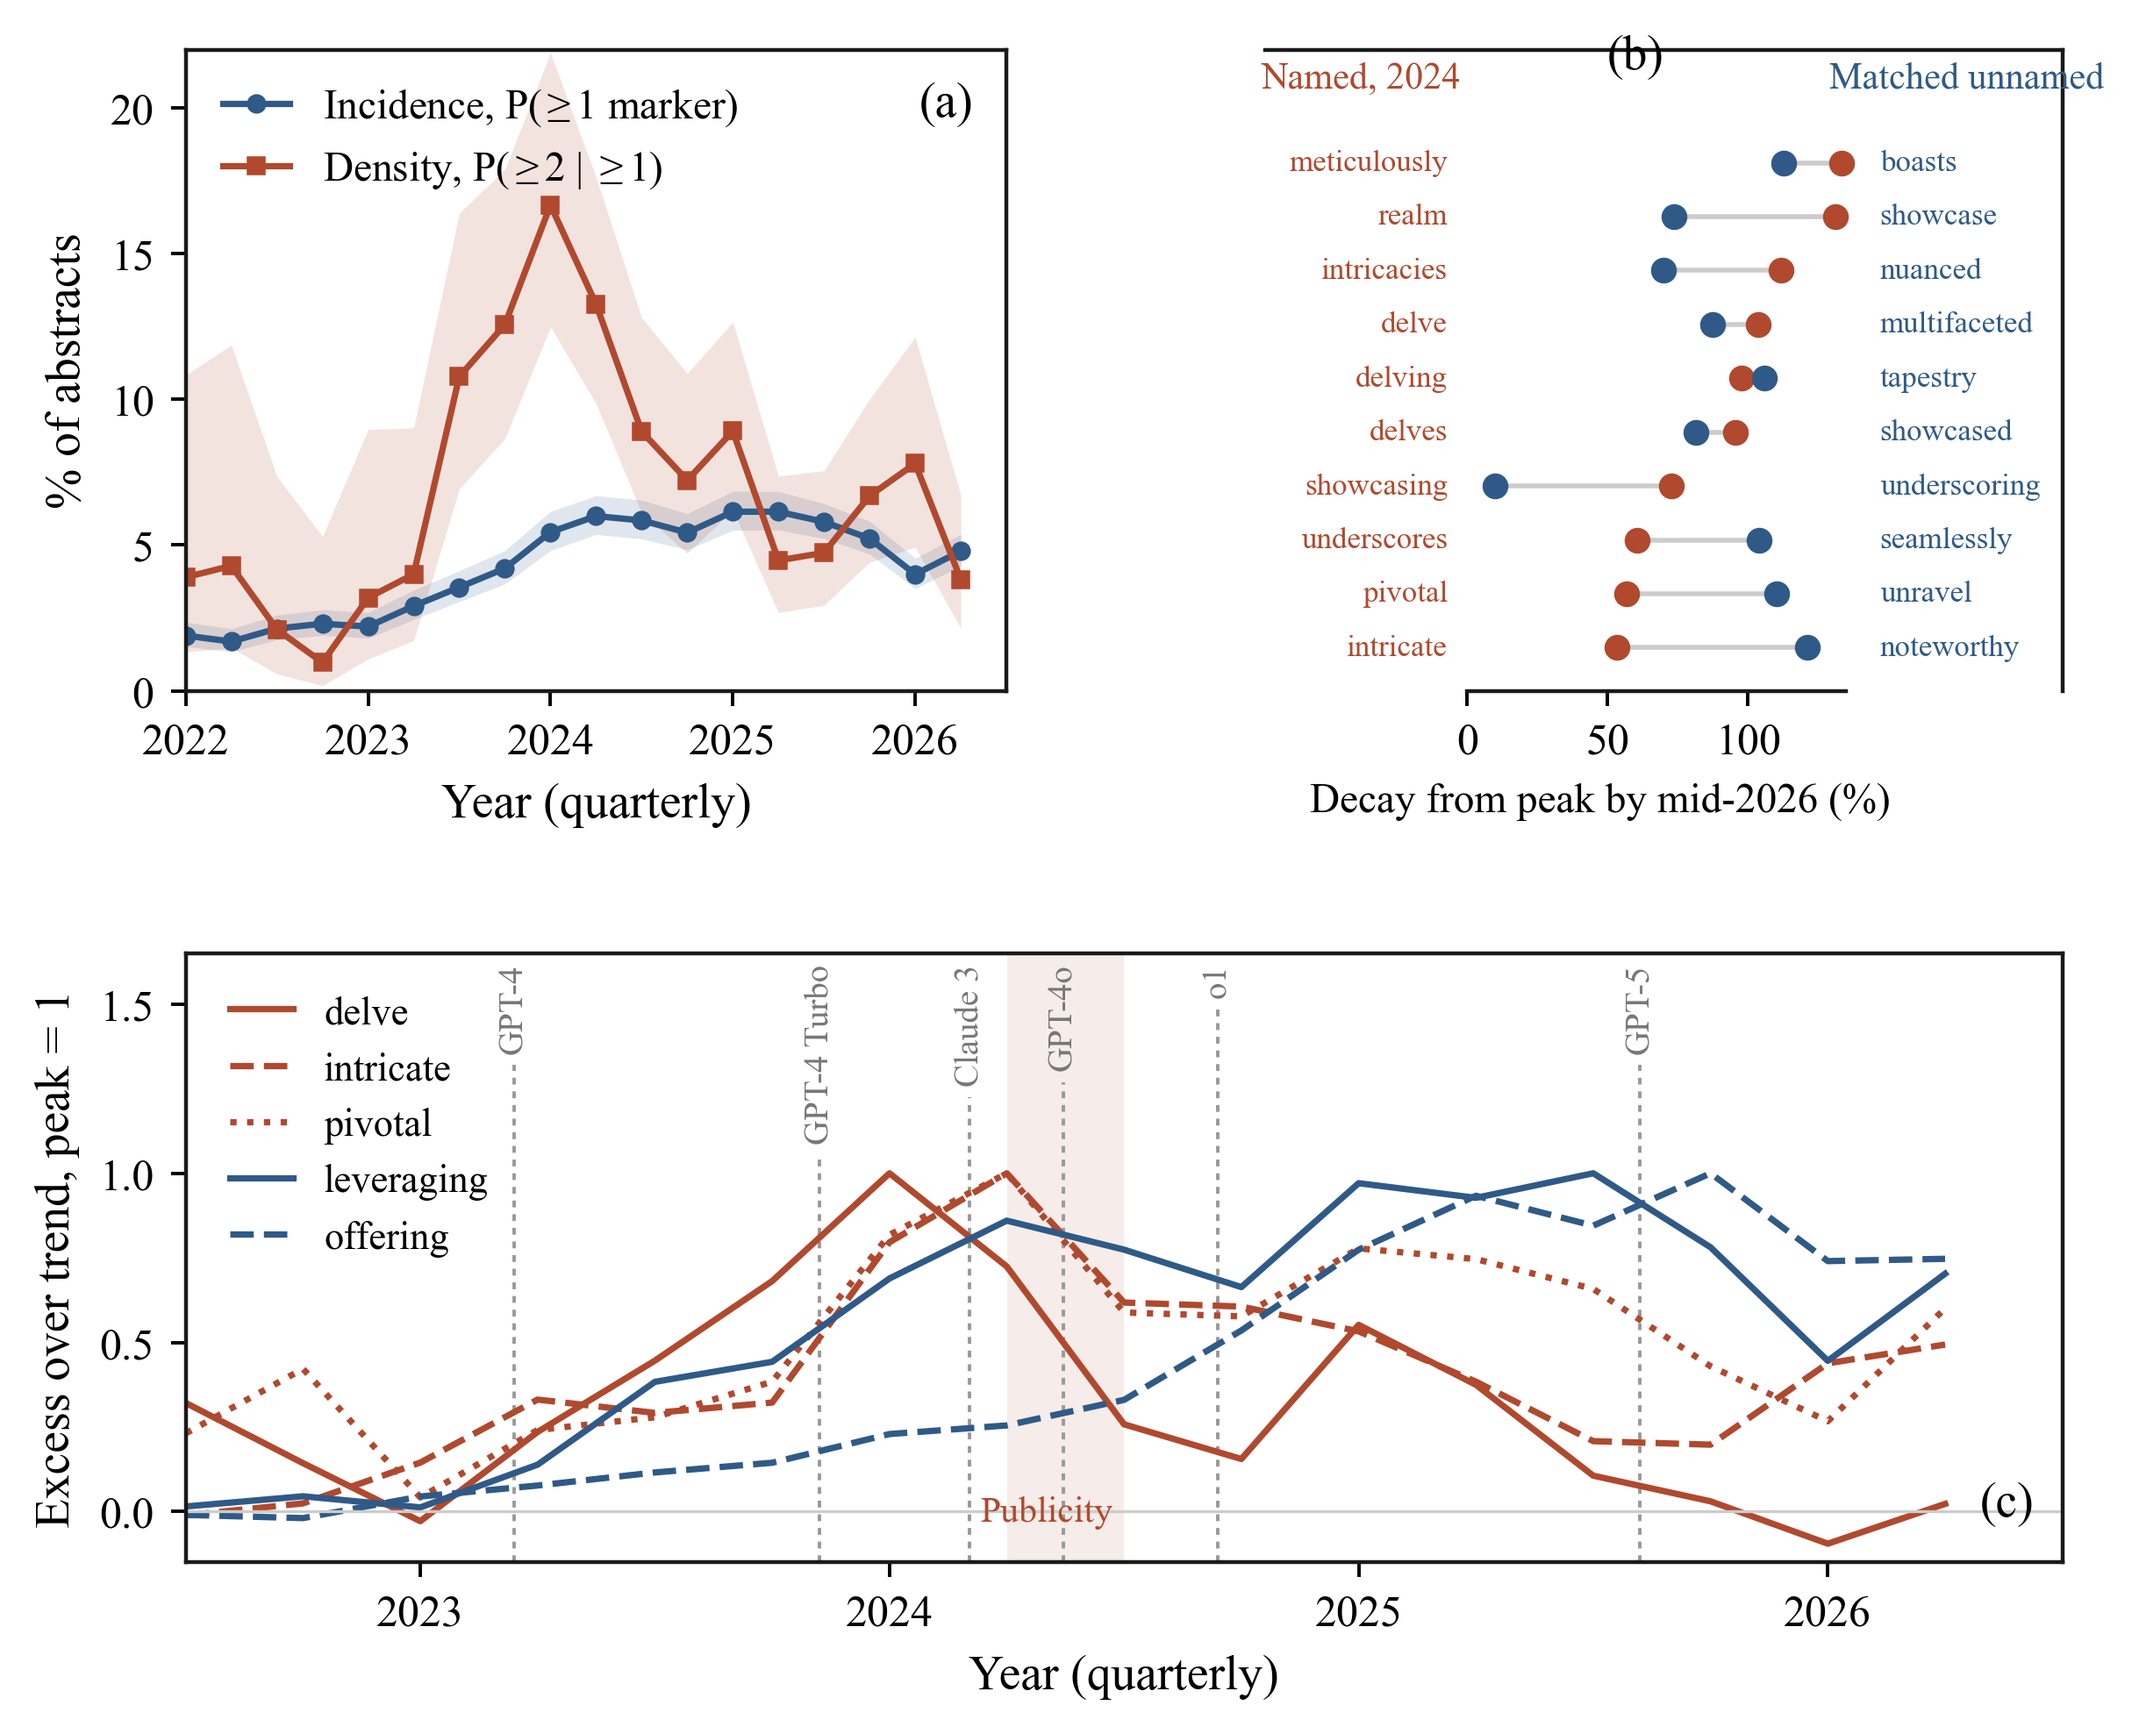
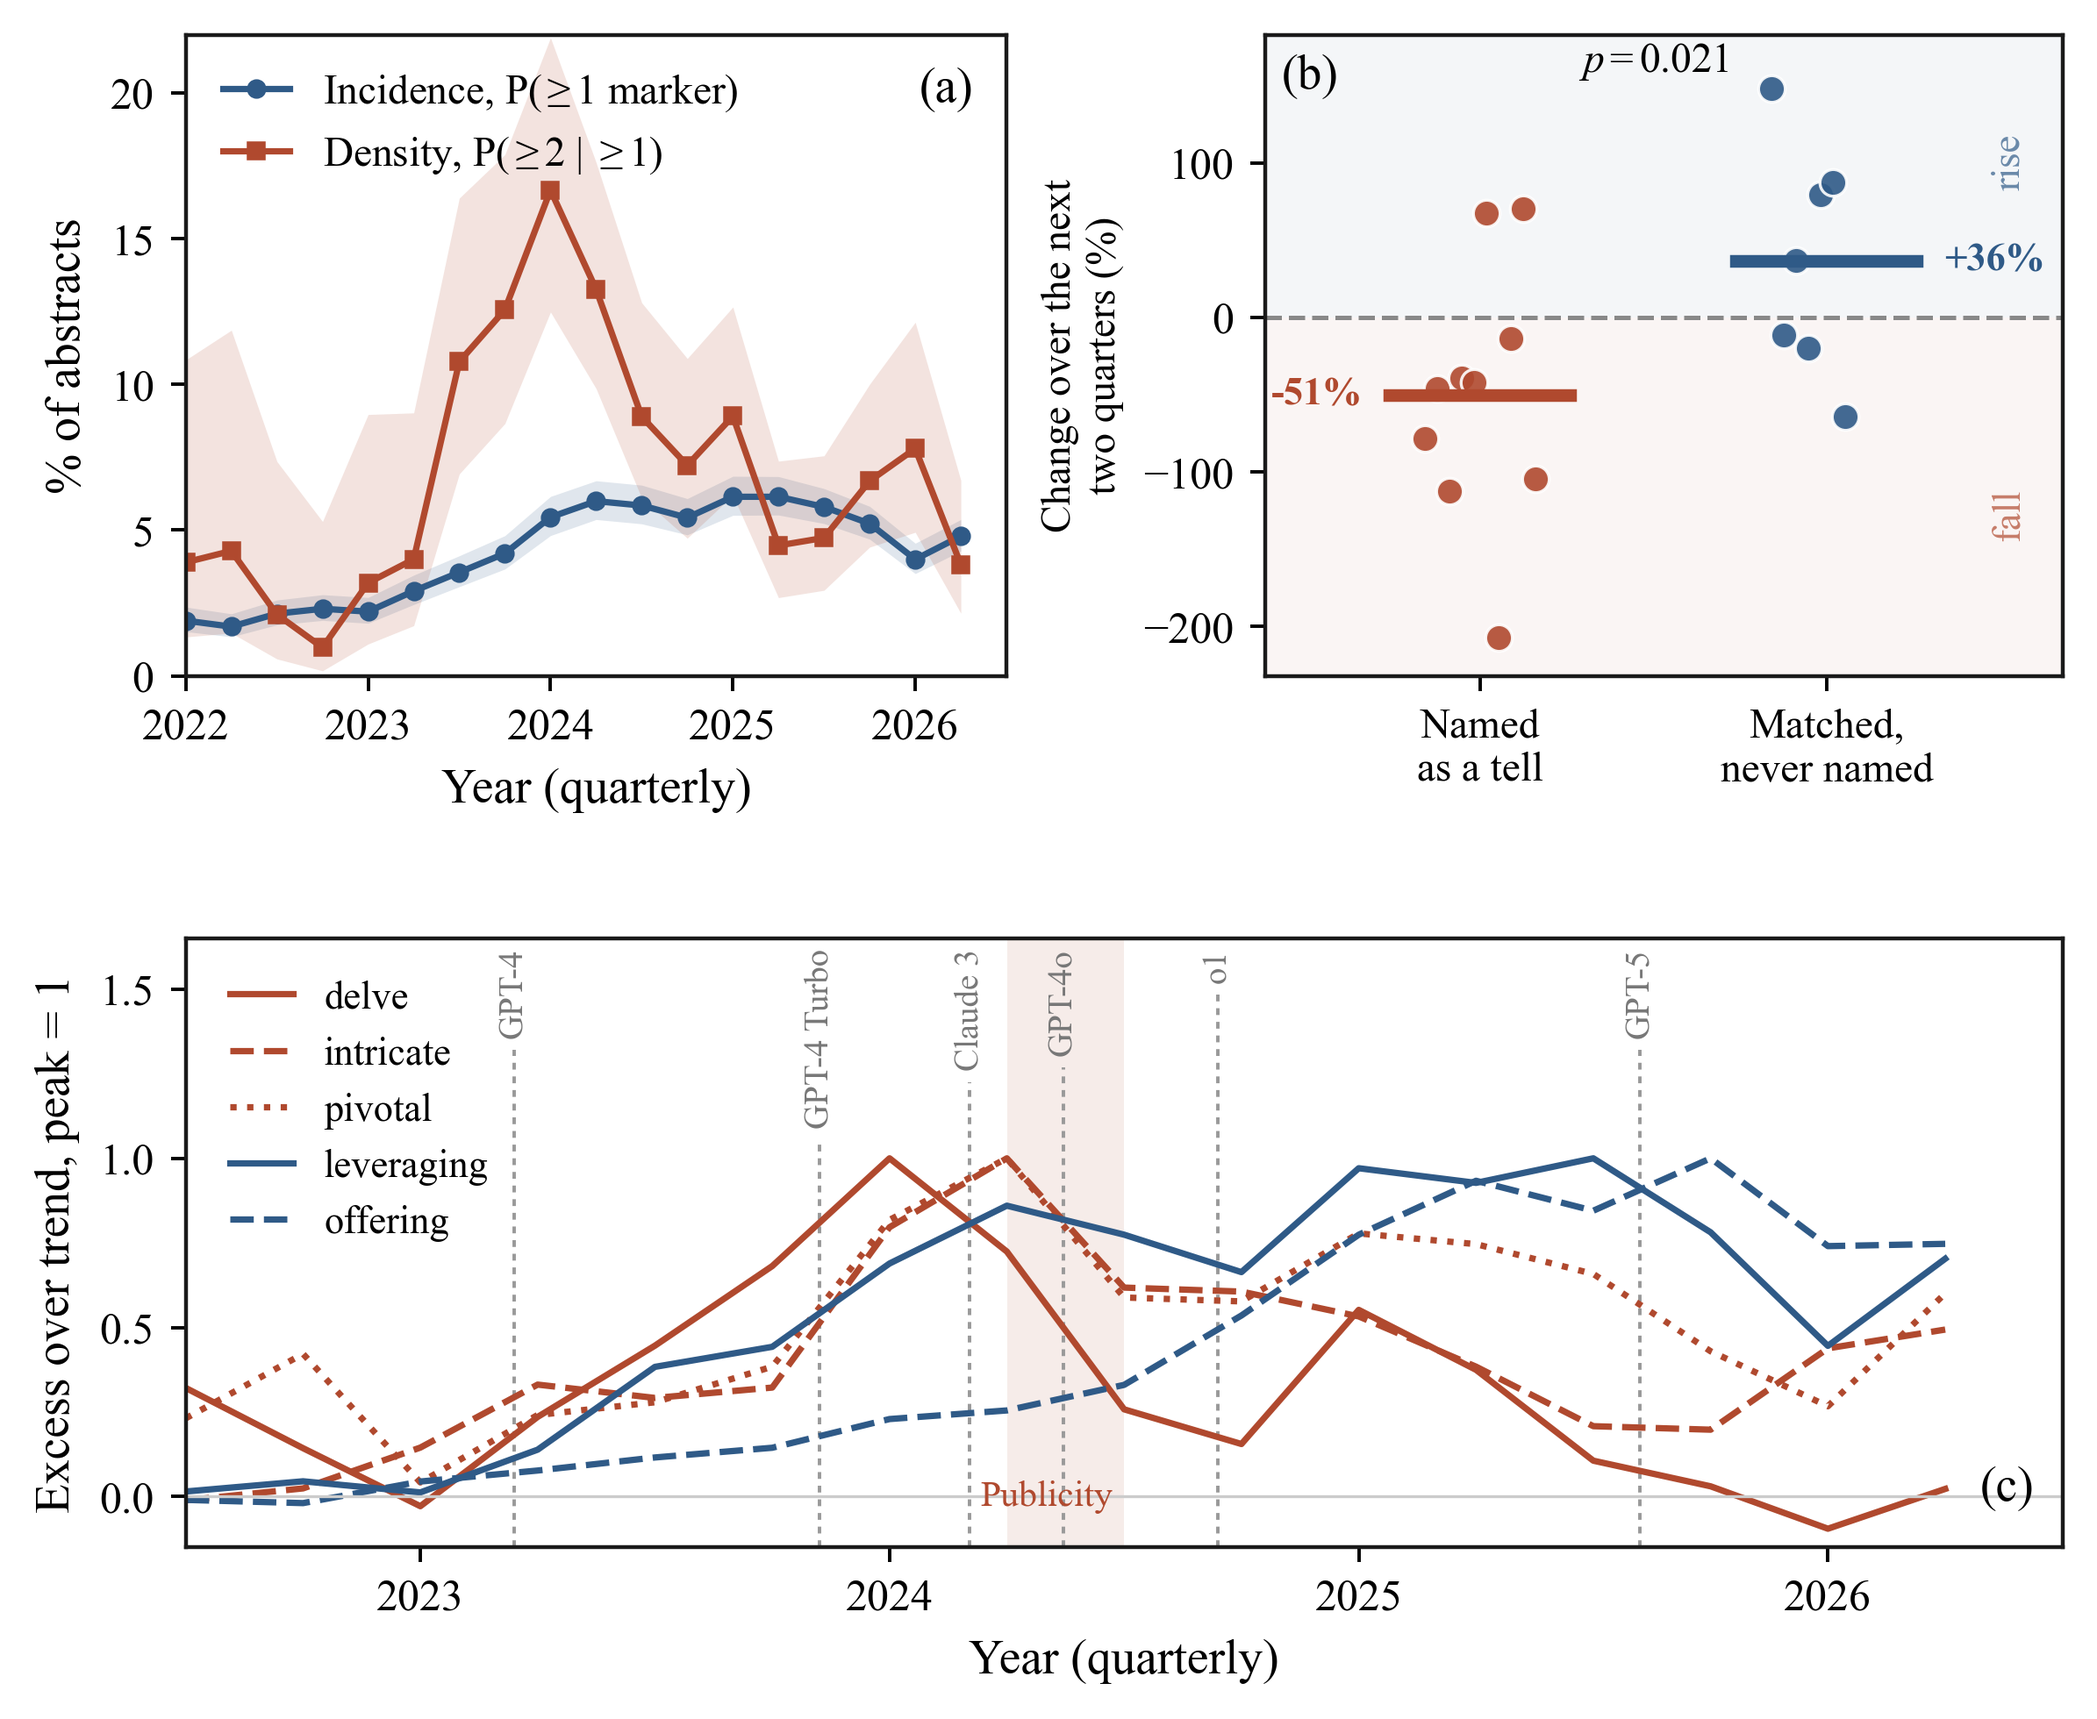
Rework Fig 3(b): pseudo-naming placebo instead of null decay panel
Replace the frequency-matched decay dumbbell (a null) with the pseudo-naming
placebo, the significant result: words publicly named as tells fall by a mean
of 51 per cent over the two quarters after naming, while frequency-matched
words that reached the same prominence but were never named rise by 36 per
cent (one-sided permutation p=0.02). Diverging strip plot with shaded
rise/fall zones and group-mean bars. p11 now emits per-word placebo points.

diff --git a/src/n2_fig.py b/src/n2_fig.py
@@ -39,33 +39,51 @@ def main():
     axA.legend(loc="upper left", fontsize=8.5)
     axA.text(0.96, 0.95, "(a)", transform=axA.transAxes, fontsize=10, ha="right", va="top")
 
-    # (b) frequency-matched pairs as horizontal dumbbells, one row per pair.
-    # Each named word (red) is joined to its matched unnamed word (blue); the
-    # two decays overlap heavily, which is the null the text reports.
-    p4 = json.load(open(os.path.join(DATA, "p4_freqmatched.json")))
-    pairs = sorted(p4["C_matched"]["pairs"], key=lambda pr: pr["decay_named"])
-    n = len(pairs)
-    for i, pr in enumerate(pairs):
-        xn, xu = pr["decay_named"], pr["decay_unnamed"]
-        axB.plot([xn, xu], [i, i], "-", color="#CCCCCC", lw=1.0, zorder=1)
-        axB.plot(xn, i, "o", ms=4.3, color=C["vermillion"], zorder=3)
-        axB.plot(xu, i, "o", ms=4.3, color=C["blue"], zorder=3)
-        axB.text(-7, i, pr["named"], fontsize=6.3, ha="right", va="center",
-                 color=C["vermillion"])
-        axB.text(147, i, pr["unnamed"], fontsize=6.3, ha="left", va="center",
-                 color=C["blue"])
-    axB.set_xlim(-72, 212)
-    axB.set_ylim(-0.8, n + 1.1)
-    axB.set_yticks([])
-    axB.set_xticks([0, 50, 100])
-    axB.spines["bottom"].set_bounds(0, 135)   # axis line under the data only
-    axB.set_xlabel("Decay from peak by mid-2026 (%)", fontsize=8.5, x=0.42)
-    axB.text(-38, n + 0.25, "Named, 2024", fontsize=7.6, ha="center",
-             va="bottom", color=C["vermillion"])
-    axB.text(178, n + 0.25, "Matched unnamed", fontsize=7.6, ha="center",
-             va="bottom", color=C["blue"])
-    axB.spines["left"].set_visible(False)
-    axB.text(60, n + 0.55, "(b)", fontsize=10, ha="center", va="bottom")
+    # (b) pseudo-naming placebo. Words publicly named as machine tells in 2024
+    # fall in the quarters after naming (red), while frequency-matched words
+    # that reached the same prominence but were never named keep rising (blue).
+    # This is the significant contrast, unlike the null decay-depth comparison.
+    import numpy as np
+    pl = json.load(open(os.path.join(DATA, "p11_round5.json")))
+    pts = pl["M5_placebo_points"]
+    pval = pl["M5_placebo"]["0.19"]["p_perm_one_sided"]
+    named = list(pts["named"].values())
+    unnamed = list(pts["unnamed"].values())
+    ylo_b = min(named + unnamed) - 25
+    yhi_b = max(named + unnamed) + 35
+    axB.axhspan(0, yhi_b, color=C["blue"], alpha=0.05, lw=0, zorder=0)
+    axB.axhspan(ylo_b, 0, color=C["vermillion"], alpha=0.05, lw=0, zorder=0)
+    axB.axhline(0, color="#888888", lw=0.9, ls="--", zorder=1)
+    jit = np.linspace(-0.16, 0.16, max(len(named), len(unnamed)))
+
+    def strip(xc, vals, col):
+        j = jit[:len(vals)]
+        axB.scatter(xc + j, vals, s=30, color=col, alpha=0.9,
+                    edgecolor="white", linewidth=0.6, zorder=3)
+        m = float(np.mean(vals))       # mean is the permutation-test statistic
+        axB.plot([xc - 0.26, xc + 0.26], [m, m], color=col, lw=2.6, zorder=4)
+        return m
+
+    mN = strip(0, named, C["vermillion"])
+    mU = strip(1, unnamed, C["blue"])
+    axB.text(-0.34, mN, f"{mN:+.0f}%", fontsize=8, color=C["vermillion"],
+             ha="right", va="center", fontweight="bold")
+    axB.text(1.34, mU, f"{mU:+.0f}%", fontsize=8, color=C["blue"],
+             ha="left", va="center", fontweight="bold")
+    axB.text(1.58, yhi_b * 0.55, "rise", fontsize=8, color=C["blue"],
+             ha="right", va="center", alpha=0.7, rotation=90)
+    axB.text(1.58, ylo_b * 0.55, "fall", fontsize=8, color=C["vermillion"],
+             ha="right", va="center", alpha=0.7, rotation=90)
+    axB.set_xlim(-0.62, 1.68)
+    axB.set_ylim(ylo_b, yhi_b)
+    axB.set_xticks([0, 1])
+    axB.set_xticklabels(["Named\nas a tell", "Matched,\nnever named"],
+                        fontsize=8.5)
+    axB.set_ylabel("Change over the next\ntwo quarters (%)", fontsize=8.5)
+    axB.text(0.5, yhi_b - 4, f"$p={pval:.3f}$", fontsize=8.5, ha="center",
+             va="top")
+    axB.text(0.02, 0.97, "(b)", transform=axB.transAxes, fontsize=10,
+             ha="left", va="top")
     # (c) timing test: decay follows publicity, not model releases
     import numpy as np
     wq = pd.read_csv(os.path.join(DATA, "n2_words.csv"))

diff --git a/src/p11_round5_stats.py b/src/p11_round5_stats.py
@@ -114,10 +114,14 @@ def main():
             return None
         return (exc_all[w][max(later)] - exc_all[w][q0]) / exc_all[w][q0] * 100
 
-    named_ch = [c for c in (chg2q(w, NAMED_Q) for w in named_at) if c is not None]
+    named_points = {w: chg2q(w, NAMED_Q) for w in named_at
+                    if chg2q(w, NAMED_Q) is not None}
+    named_ch = list(named_points.values())
     sens = {}
+    unnamed_points_headline = {}
     for thr in (0.10, 0.15, 0.19, 0.25):
         un_ch = []
+        un_pts = {}
         for r in rows:
             if r["named"]:
                 continue
@@ -129,7 +133,9 @@ def main():
                 continue
             c = chg2q(w, crossed[0])
             if c is not None:
-                un_ch.append(c)
+                un_ch.append(c); un_pts[w] = c
+        if thr == 0.19:
+            unnamed_points_headline = un_pts
         # permutation test on group means
         allv = named_ch + un_ch
         nn = len(named_ch)
@@ -146,6 +152,9 @@ def main():
         print(f"M5 thr {thr:.2f}pp: named {np.mean(named_ch):+.0f}% (n={nn}), "
               f"crossers {np.mean(un_ch):+.0f}% (n={len(un_ch)}), p={ge/20000:.4f}")
     out["M5_placebo"] = sens
+    out["M5_placebo_points"] = {"named": named_points,
+                                "unnamed": unnamed_points_headline,
+                                "threshold": 0.19}
 
     # ---- M6: omnibus heterogeneity for the subfield decay -------------------
     boot = json.load(open(os.path.join(DATA, "m5_subfield_boot.json")))
